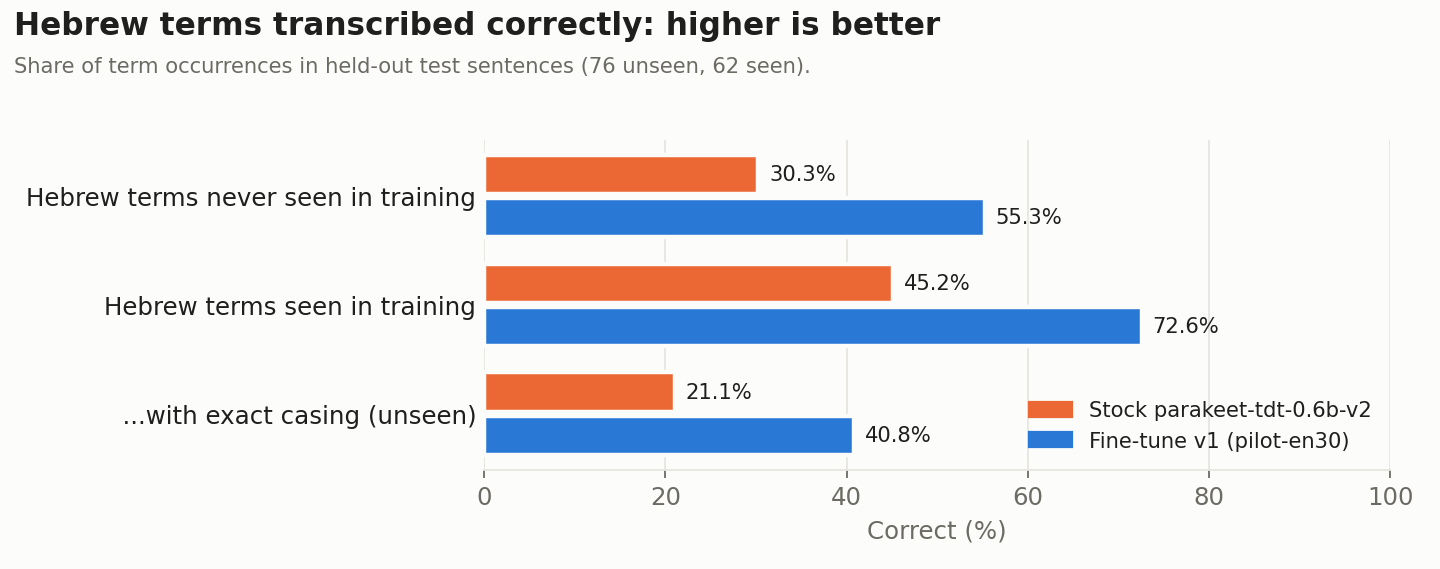
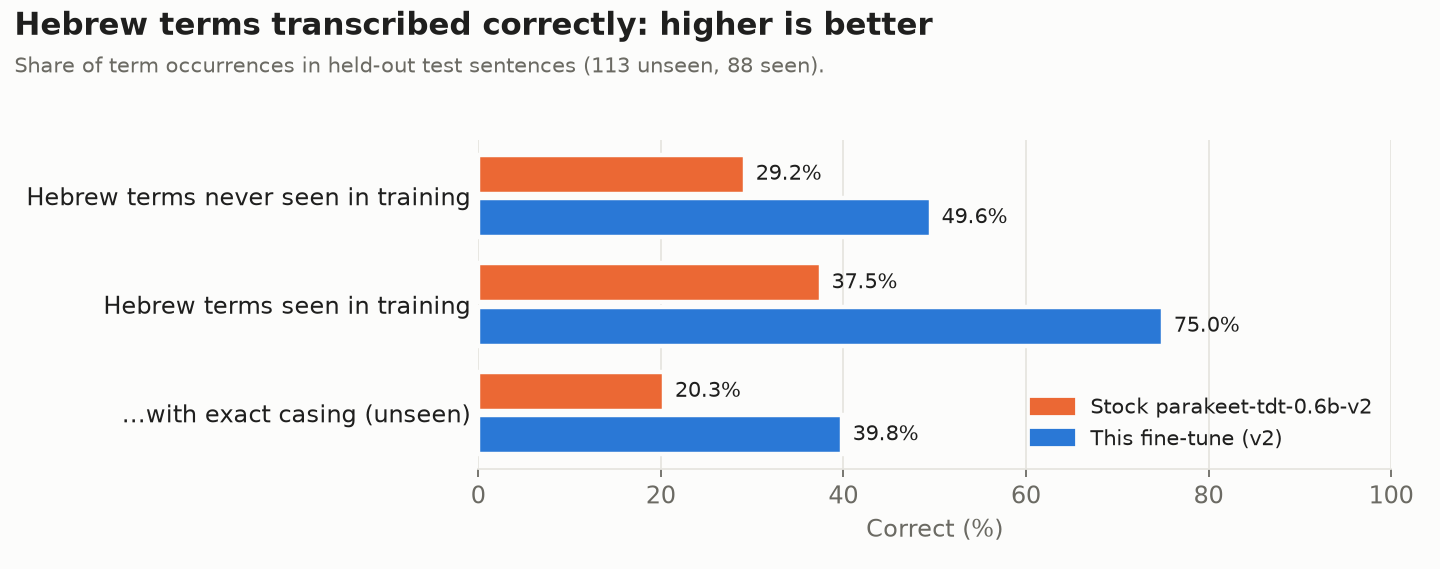
v2 released: results, data counts, lifecycle and log

diff --git a/README.md b/README.md
@@ -35,7 +35,7 @@ private repository.
 
 **If unsure, take Q8_0.** It is the closest to full accuracy that still runs on a phone, and
 on desktop CPUs it was also *faster* than Q4_K_M: about 3× realtime against 1.4× on 8 cores.
-Both gave identical transcripts to the `.nemo` on the test clips. Speed on phones has not
+On five held-out test clips, Q8_0 matched the `.nemo` word for word; Q4_K_M differed on one word (v2, 2026-10-15). Speed on phones has not
 been measured yet. ONNX exports for sherpa-onnx apps (Voxtype, Dictus) are not published
 yet.
 
@@ -56,14 +56,14 @@ yet.
    between dictations.
 
 Both GGUFs were converted with transcribe.cpp **v0.1.3**, the version the app links. On five
-held-out test clips they gave word-for-word the same transcripts as the PyTorch model
-(checked 2026-10-15).
+held-out test clips, Q8_0 gave word-for-word the same transcripts as the PyTorch model and
+Q4_K_M differed on one word (v2, checked 2026-10-15).
 
 **Linux:** [Handy](https://github.com/cjpais/Handy) loads the same GGUF. Copy it into
 `~/.local/share/com.pais.handy/models/` with its own file name; a name that matches a stock
 catalogue file is treated as the stock model.
 
-**Status (2026-10-15): first fine-tune published.** Data collection continues.
+**Status (2026-10-15): v2 published** (120 min of code-switching). Data collection continues toward v3 at 180 min.
 Model: [`danielrosehill/Parakeet-TDT-0.6B-v2-English-Hebrew-Codeswitching`](https://huggingface.co/danielrosehill/Parakeet-TDT-0.6B-v2-English-Hebrew-Codeswitching)
 
 ## The problem
@@ -111,7 +111,7 @@ Sources: [Liu et al. 2025](https://arxiv.org/abs/2509.24310),
 | What | Link | Status |
 |---|---|---|
 | Base model | [`nvidia/parakeet-tdt-0.6b-v2`](https://huggingface.co/nvidia/parakeet-tdt-0.6b-v2) | Upstream |
-| **Fine-tuned model** | [`danielrosehill/Parakeet-TDT-0.6B-v2-English-Hebrew-Codeswitching`](https://huggingface.co/danielrosehill/Parakeet-TDT-0.6B-v2-English-Hebrew-Codeswitching) | v1 pilot, 2026-10-15: `.nemo` plus GGUF Q8_0 and Q4_K_M. CC-BY-4.0, like the base model. |
+| **Fine-tuned model** | [`danielrosehill/Parakeet-TDT-0.6B-v2-English-Hebrew-Codeswitching`](https://huggingface.co/danielrosehill/Parakeet-TDT-0.6B-v2-English-Hebrew-Codeswitching) | v2, 2026-10-15: `.nemo` plus GGUF Q8_0 and Q4_K_M. CC-BY-4.0, like the base model. v1 is in the repo history. |
 | Android app that loads it | [Offline Voice Input](https://play.google.com/store/apps/details?id=dev.notune.transcribe) ([source](https://github.com/notune/android_transcribe_app)) | Imports the GGUF; works as a voice keyboard and as the system voice input |
 | **Training data**: code-switching takes | [`danielrosehill/English-Hebrew-Codeswitching-Sentences`](https://huggingface.co/datasets/danielrosehill/English-Hebrew-Codeswitching-Sentences) | Live, synced on every push |
 | **Demo**: stock v2 vs the fine-tune, side by side | [Space: `English-Hebrew-Codeswitching-Parakeet-Demo`](https://huggingface.co/spaces/danielrosehill/English-Hebrew-Codeswitching-Parakeet-Demo) | Live (ZeroGPU) |
@@ -129,29 +129,33 @@ Sources: [Liu et al. 2025](https://arxiv.org/abs/2509.24310),
 | 2. Capture app | Done, 2026-10-14 | A phone web app in the style of Common Voice: read a sentence, record it, review, next. Takes are pushed to Hugging Face in batches. |
 | 3. Data collection | **In progress** | See "Data so far" |
 | 4. Baseline | Done, 2026-10-15 | Stock v2 got 28% of Hebrew term occurrences right across 615 terms |
-| 5. Pilot fine-tune | Done, 2026-10-15 | See "Results". The 0% and 15% English comparison is still to run. |
-| 6. Full fine-tune | Not started | At the mix chosen by the pilot |
-| 7. On-device export | GGUF done, 2026-10-15 | Q8_0 and Q4_K_M via transcribe.cpp v0.1.3; identical transcripts to PyTorch on 5 test clips. Phone test pending. |
-| 8. Release | Pilot released | The base model is CC-BY-4.0, so fine-tunes are published openly |
+| 5. Pilot fine-tune | Done, 2026-10-15 | v1, 77 min of code-switching |
+| 6. Retrains | v2 done, 2026-10-15 | v2 at 120 min, ~28% English. Next: v3 at 180 min, with the 0/15/30% English comparison. |
+| 7. On-device export | GGUF done, 2026-10-15 | v2 re-exported: Q8_0 identical to PyTorch on 5 test clips, Q4_K_M off by one word. Phone test pending. |
+| 8. Release | v2 released | The base model is CC-BY-4.0, so fine-tunes are published openly |
 
 ## Results
 
-The first fine-tune, **v1** (run `pilot-en30`, 2026-10-15), was trained on 77 min of code-switching,
-22 min of the speaker's English and 11 min of LibriSpeech replay. It took 19 minutes on one
-GPU.
+**v2** (run `r2-en30`, 2026-10-15) was trained from stock v2 on 120 min of code-switching,
+29 min of the speaker's English and 17 min of LibriSpeech replay. It took 23 minutes on one
+GPU. Both models were scored on the current test split (121 code-switching clips).
 
-| Test set | Stock v2 | Fine-tune |
+| Test set | Stock v2 | Fine-tune v2 |
 |---|---|---|
-| Code-switching, held-out test (WER) | 9.5% | **4.5%** |
-| Hebrew terms **never seen in training**: share correct | 30% | **55%** |
-| Hebrew terms seen in training: share correct | 45% | **73%** |
-| Speaker's plain English (WER) | 2.9% | 2.5% |
-| LibriSpeech test-clean (WER) | 1.2% | 1.4% |
-| Long form, ~3-minute files (WER) | 7.2% | **4.1%** |
+| Code-switching, held-out test (WER) | 9.9% | **4.8%** |
+| Hebrew terms **never seen in training**: share correct | 29% | **50%** |
+| Hebrew terms seen in training: share correct | 38% | **75%** |
+| Speaker's plain English (WER) | 2.7% | 2.4% |
+| LibriSpeech test-clean (WER) | 1.2% | 1.1% |
+| Long form, ~3-minute files (WER) | 7.8% | **4.5%** |
 
-![Word error rate, stock v2 vs v1](figures/wer.png)
+![Word error rate, stock v2 vs the fine-tune](figures/wer.png)
 
-![Hebrew terms transcribed correctly, stock v2 vs v1](figures/terms.png)
+![Hebrew terms transcribed correctly, stock v2 vs the fine-tune](figures/terms.png)
+
+v1 (77 min, earlier the same day) scored 4.5% code-switching WER and 55% on unseen terms on
+the smaller test split it was evaluated on; the two test splits differ, so those numbers do
+not compare directly with the table.
 
 WER here is lowercase with punctuation removed. English did not get worse. The jump on
 unseen terms suggests the model learned how this speaker's Hebrew maps to the
@@ -164,17 +168,17 @@ every time: mostly names, well-known places and words that are already English (
 Pesach, Bamba). It never gets 390 right: Misrad Hapnim, Bituach Leumi, tzaharon, rofe
 mishpacha, Motzei Shabbat, Pikud Haoref. Recording now concentrates on the second group.
 
-### Data so far (2026-10-15)
+### Data so far (2026-10-15, revision used for v2)
 
 Code-switching takes, from the `metadata.jsonl` files on Hugging Face:
 
 | Split | Clips | Audio | Of which recorded on the phone |
 |---|---|---|---|
-| train | 925 | 82 min | 457 clips, 53 min |
-| test | 85 | 10 min | 55 clips, 8 min |
+| train | 1,248 | 120 min | 88 min |
+| test | 121 | 14 min | |
 
 The rest came from the earlier desktop-mic round. The same split has 26 min of the speaker's
-own monolingual English (24% of the combined audio), but only 4 min of it is plain
+own monolingual English (29 min), but only 6 min of it is plain
 English; the rest is tech and names sentences. So plain English is now a recording
 priority. 529 distinct Hebrew terms appear in
 train, but most only once, so recording is now weighted toward terms with only one or two
@@ -208,6 +212,7 @@ takes.
 
 Newest first. One line per milestone.
 
+- **2026-10-15**: v2 published (120 min of code-switching): code-switching WER 9.9% → 4.8% and unseen Hebrew terms 29% → 50% against stock v2, no English regression. HF now lists it as a fine-tune of v2.
 - **2026-10-15**: Next retrain (v2) set for 120 min of code-switching training audio; 108 min
   so far (90%). Subset script and sentence bank published here; model card has a roadmap.
 - **2026-10-15**: Demo Space live. Published transcripts normalised: 10 rows fixed,
